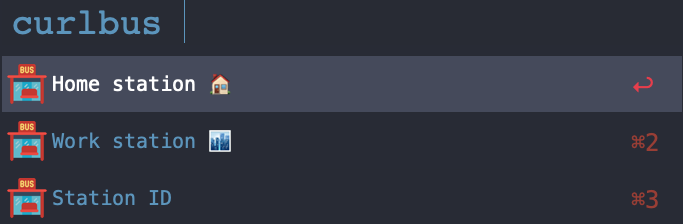
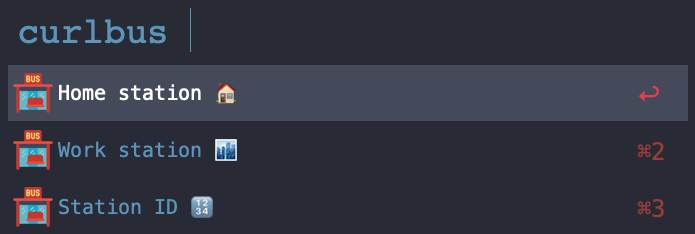
WIP: Add gif demo in README, more refactoring

diff --git a/curlbus.py b/curlbus.py
@@ -1,7 +1,8 @@
 #!/usr/bin/env python
 """
-This script get bus ETA from the https://curlbus.app and outputs the result in a format which Alfred (macOS) or
-Ulauncher (Linux) expects. Output is a JSON object printed to the STDOUT
+This script gets a bus ETA from the https://curlbus.app and outputs the result in a format which Alfred (macOS) or
+Ulauncher (Linux) expects. Output is a JSON object printed to the STDOUT, both Alfred and Ulauncher will run this
+script and load it's output as a JSON for further processing
 """
 from __future__ import annotations
 
@@ -51,6 +52,7 @@ def main(args):
     station_id = args.station_id
     url = urljoin(URL, str(station_id))
     try:
+        # Try to get info from Curlbus
         with urlopen(url, timeout=2) as res:
             res_bytes = res.read()
             res_text = res_bytes.decode('utf-8')

diff --git a/README.md b/README.md
@@ -3,17 +3,18 @@
 ##### Note: to get bus ETA this workflow uses [curlbus](https://github.com/elad661/curlbus) service by [elad661](https://github.com/elad661) and it works with the Israeli transit only (at the moment).
 
 To run the workflow just type "curlbus".
-Alfred will present them like on the screenshot below.
 
-![sc1](images/Screenshot_1.png)
+![sc1](images/demo.gif)
 
 ##### Configuration
-The basic setup has two bus stations "Home station 🏠" and "Work station 🏙" and an option provide any station ID manually.
+The basic setup has two bus stations "Home station 🏠", "Work station 🏙" and "Station ID 🔢" option to provide any
+ station ID manually.
 You have to [configure several environment variables](https://www.alfredapp.com/help/workflows/advanced/variables/) to customize the station IDs and Alfred select option titles.
  
 Those environment variables are prefixed with the "CB_FW" prefix (stands for curlbus_workflow).
 
-Here is Alfred documentation: [Using Variables in Workflows](https://www.alfredapp.com/help/workflows/advanced/variables/)
+Here is Alfred documentation: [Using Variables in Workflows](https://www.alfredapp.com/help/workflows/advanced
+/variables/)
 
 `CB_WF_STATION_A_ID=12345` - first station ID.
 
@@ -23,8 +24,9 @@ Here is Alfred documentation: [Using Variables in Workflows](https://www.alfreda
 
 `CB_WF_SELECT_OPTION_TITLE_B=Work station 🏙 ` - any text you want, Alfred will present it as a select option.
 
-`CB_WF_PYTHON3_PATH=/usr/bin/python3` - this workflow needs Python 3, so either provide a full path to the Python 3
+`CB_WF_PYTHON3_PATH=/usr/bin/python3` - this workflow needs Python 3.7, so either provide a full path to the Python 3.7
  executable or if it's already in `$PATH` use just `python` or `python3` according to the executable name.
+
 
 Icons made by 
 <a href="https://www.flaticon.com/authors/vectors-market" title="Vectors Market">Vectors Market</a> 
@@ -32,7 +34,3 @@ and
 <a href="https://www.flaticon.com/authors/smashicons" title="Smashicons">Smashicons </a> 
 from 
 <a href="https://www.flaticon.com/" title="Flaticon"> www.flaticon.com </a>
-
-[reference]: (https://github.com/elad661/curlbus)[foo
-
-[foo]: https://github.com/elad661/curlbus
